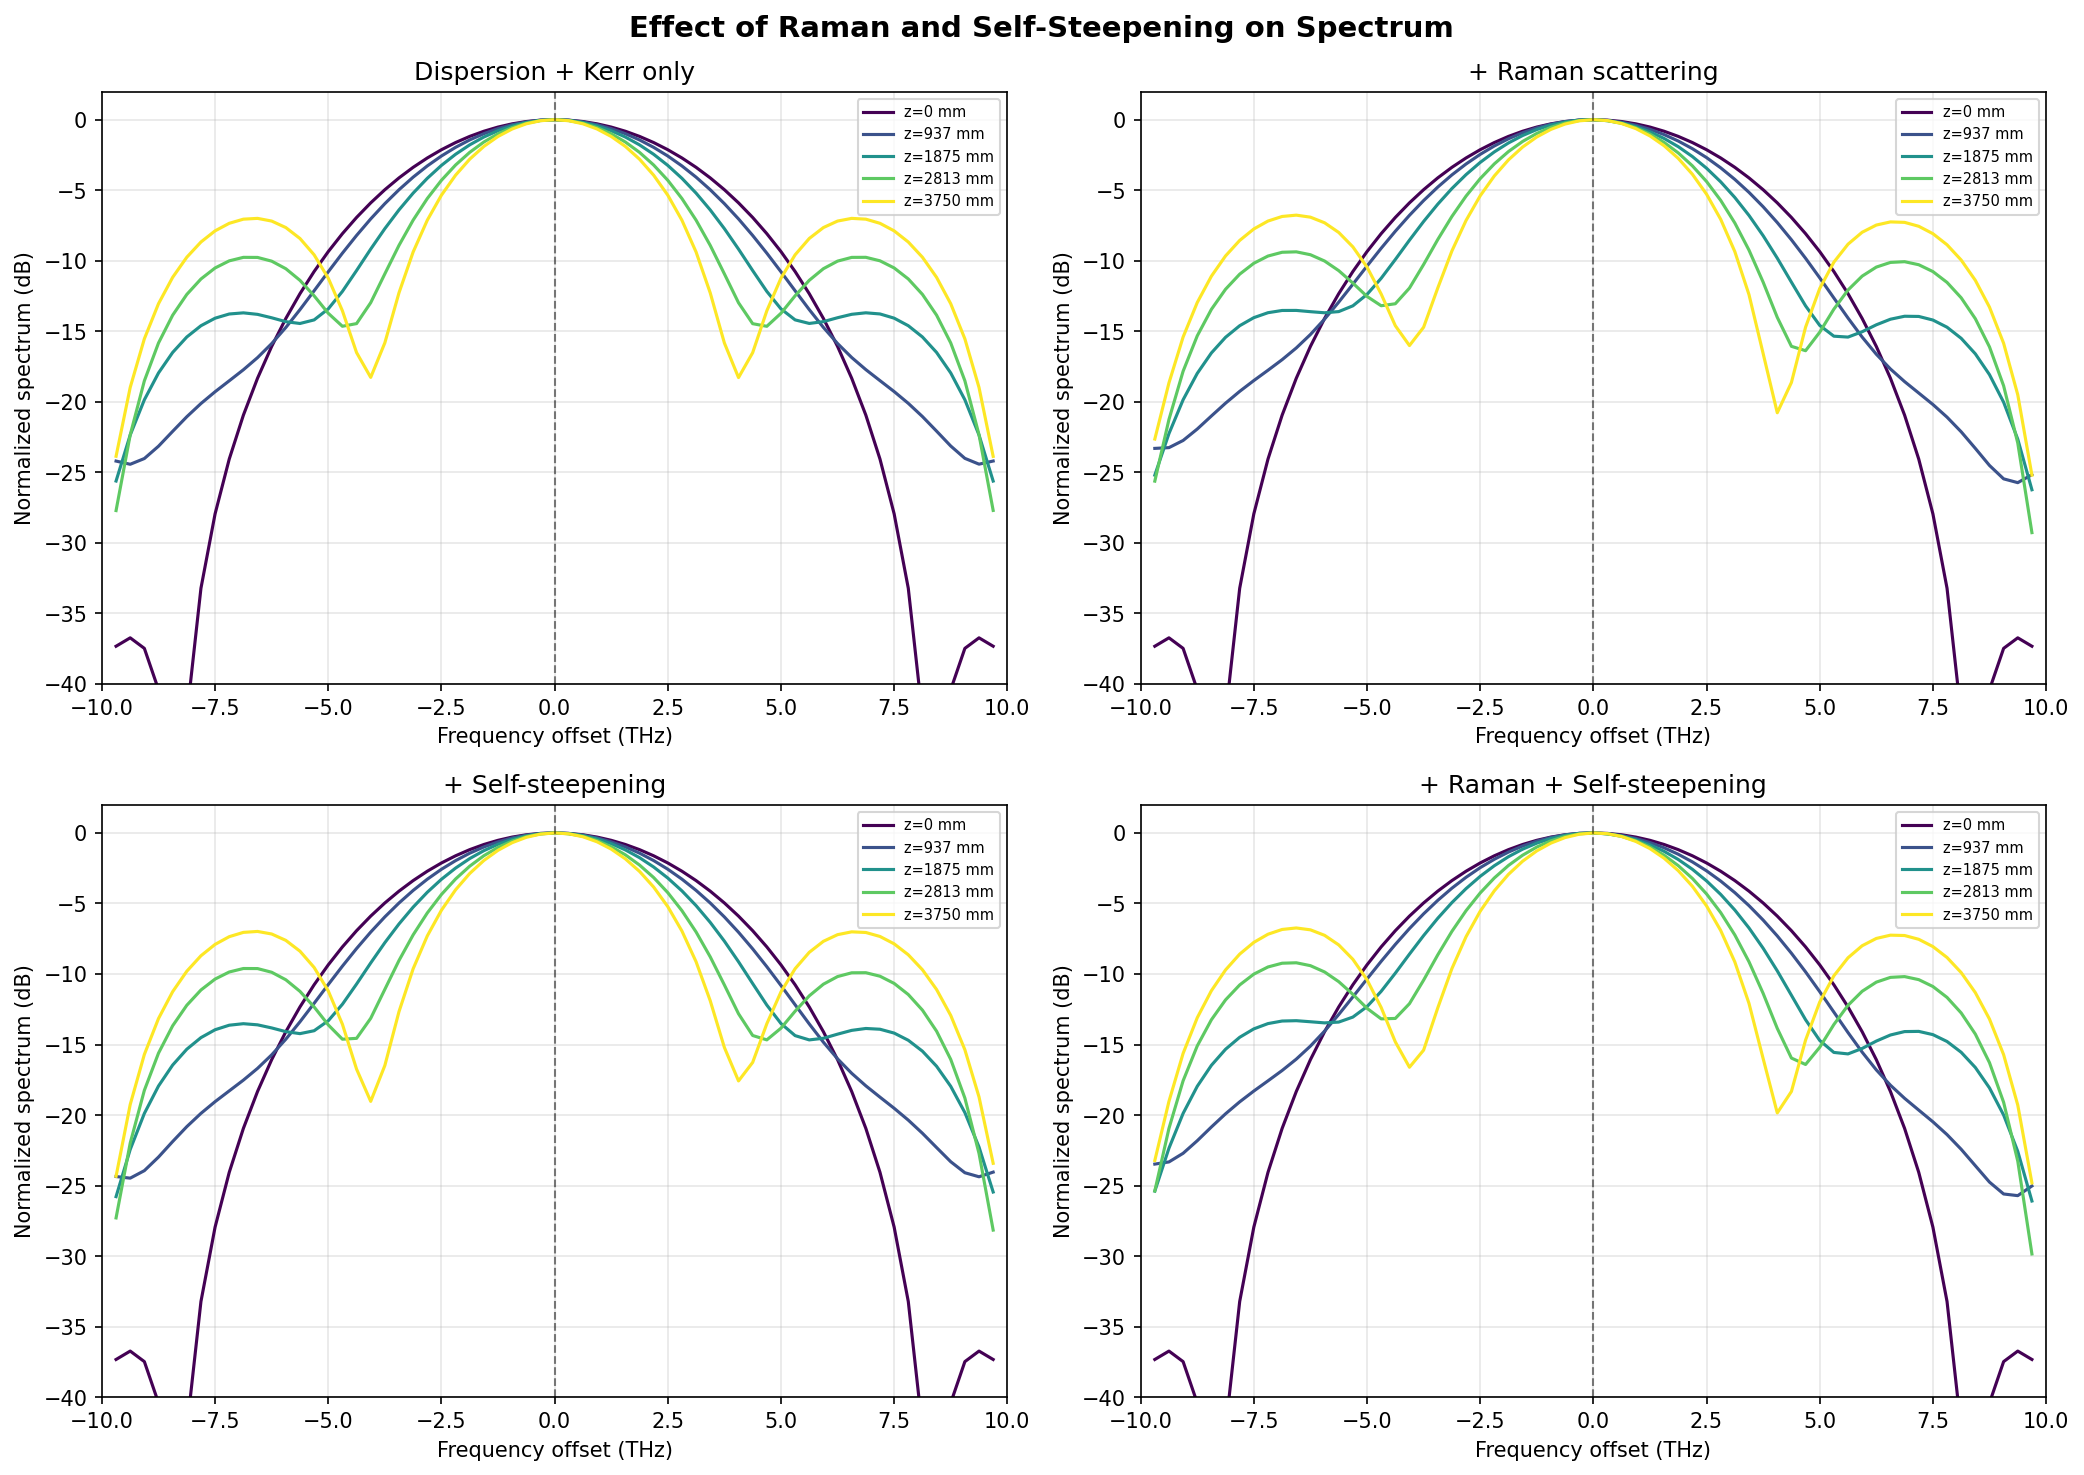
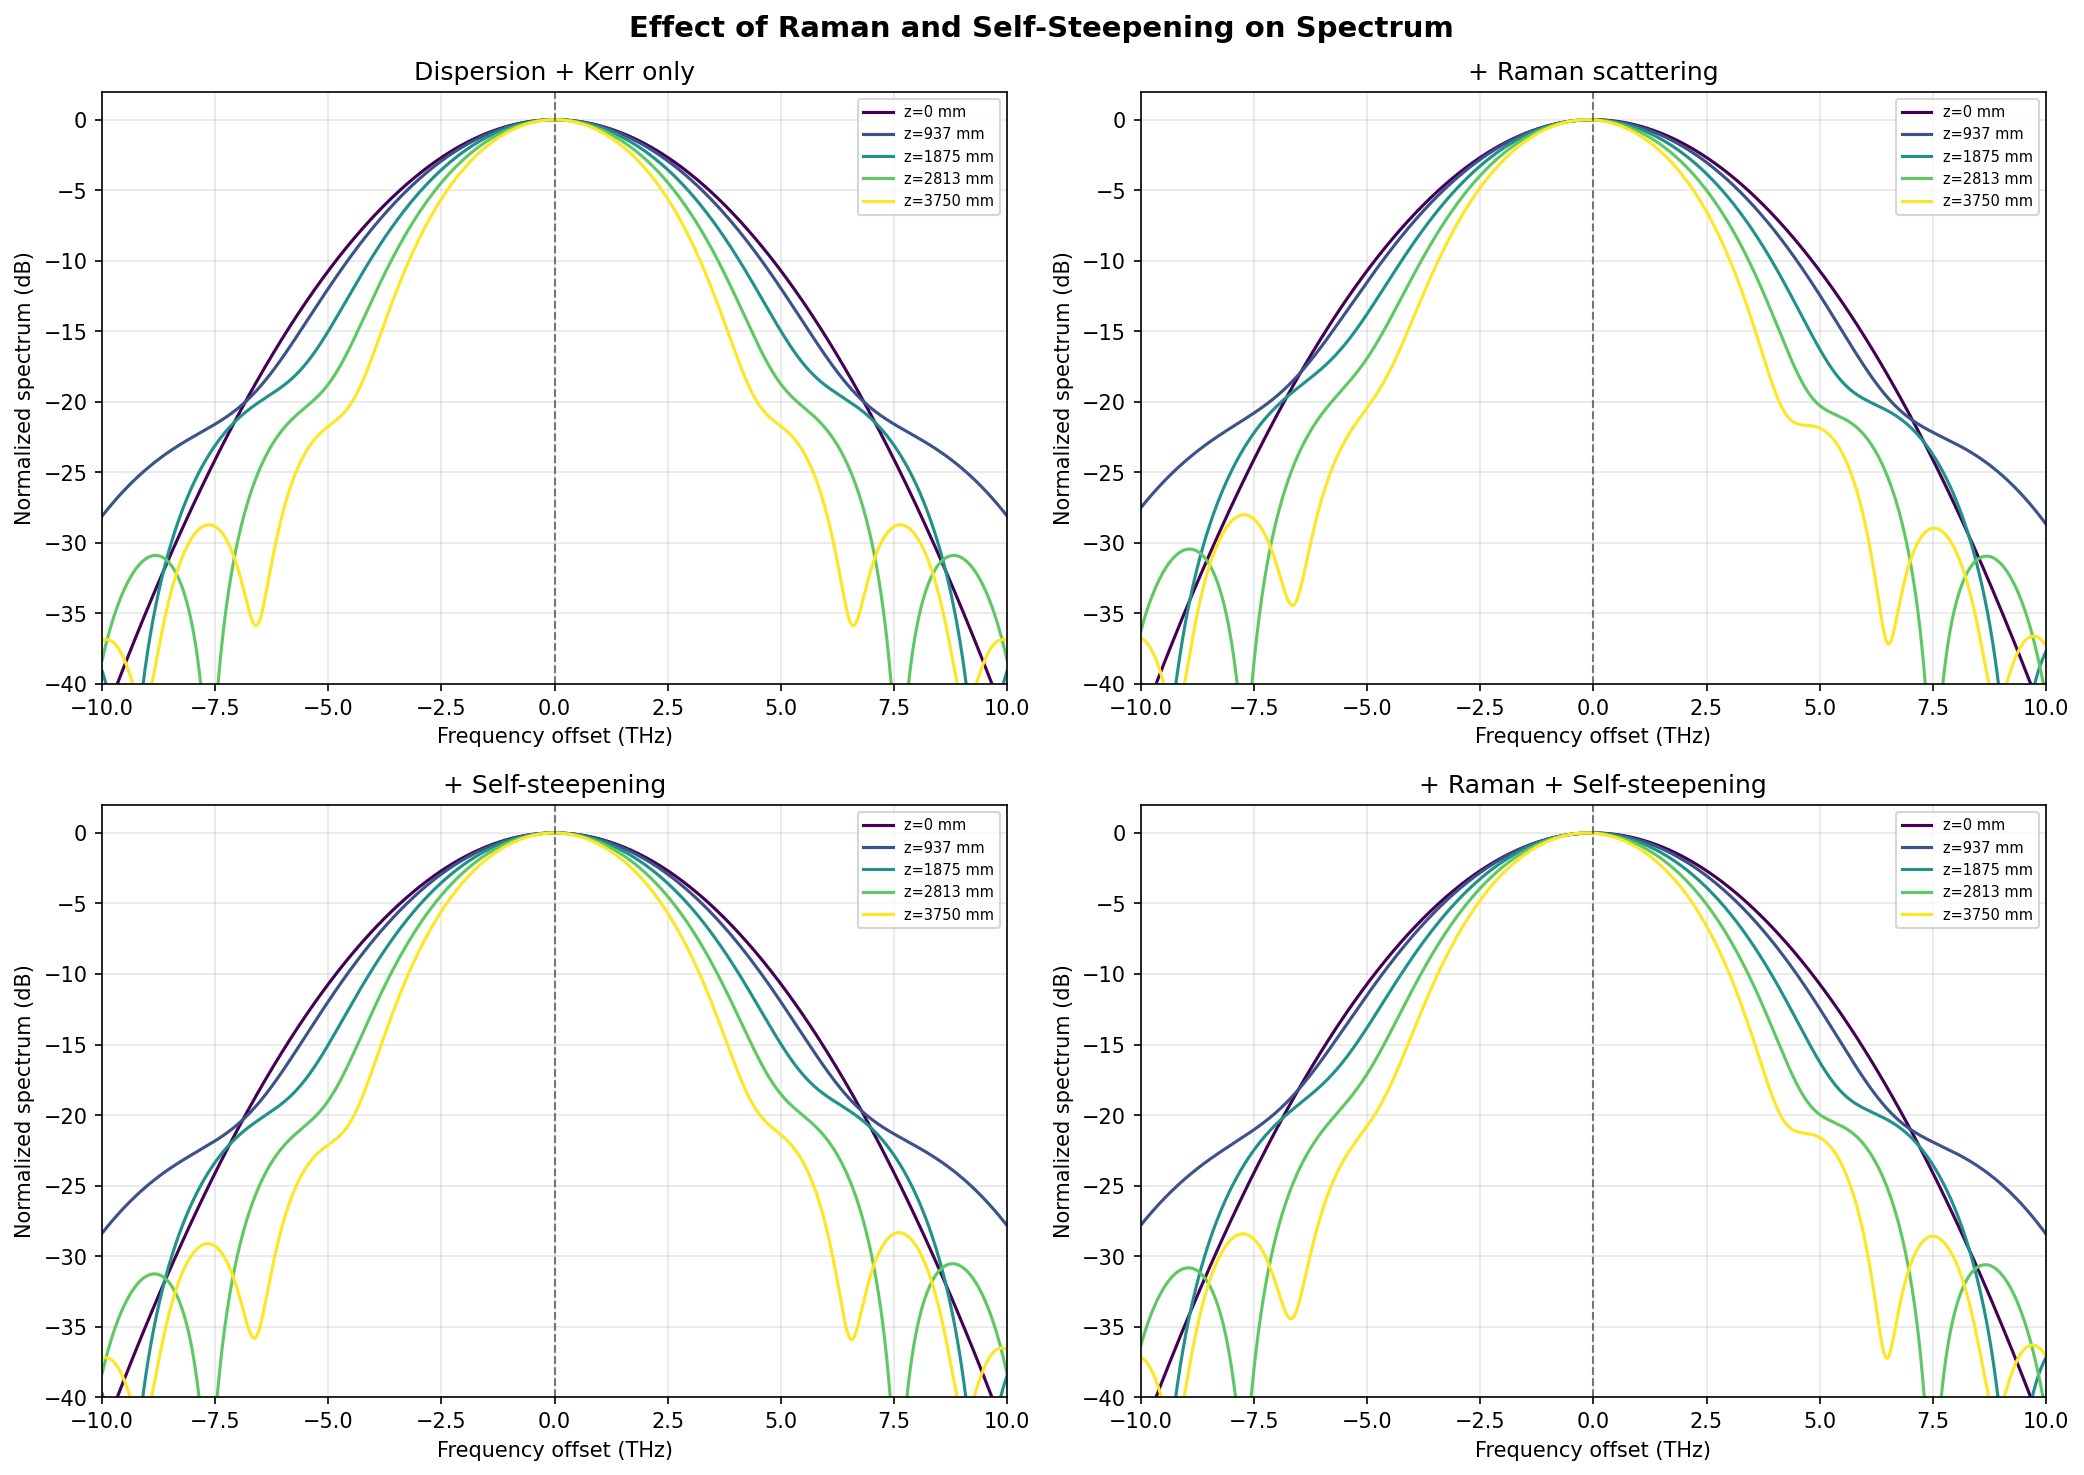
docs(roadmap): phase-5 scope + fix examples audit
- ROADMAP: add a proposed Phase-5 section (FROG depth, GPU GNLSE backend,
  mode-solver n_eff interface, reproducibility pipeline v2, dashboard
  unification, code-layout/examples audit) for later implementation.
- examples audit: every script under examples/ executed; the only hard
  failure was 14_gnlse_raman_and_steepening.py (the self-steepening substep
  rejects grids with Omega_max >= omega_0; the 0.2 ps window gave a
  24 fs step, ~72x over). The window is widened to 16 ps (dt ~ 3.9 fs,
  Omega_max/omega_0 ~ 0.89) and the Raman response is built on the same
  propagation grid as the pulse, so the engine's cached h_R FFT matches
  exactly. Web-app examples (10, 32) verified by module import/generation.
- remaining signals are documented warnings only: normalized-envelope
  peak-power hints and the known ~5-8% shock+Raman energy drift in the
  21/27 Dudley-China NSLE variants.

diff --git a/examples/14_gnlse_raman_and_steepening.py b/examples/14_gnlse_raman_and_steepening.py
@@ -41,9 +41,19 @@ def make_pulse(wavelength_nm=1064, T0_fs=50):
     return pulse
 
 
-def make_high_power_pulse(wavelength_nm=1064, T0_fs=50, peak_power_W=10000):
-    """Create a high-power pulse for nonlinear effects."""
-    grid = TemporalGrid(N=2**13, Tmax=Time(4 * T0_fs * 1e-15, "s"))
+def make_high_power_pulse(
+    wavelength_nm=1064, T0_fs=50, peak_power_W=10000, grid=None
+):
+    """Create a high-power pulse for nonlinear effects.
+
+    The self-steepening substep requires the grid's Nyquist offset to stay
+    below the carrier (Omega_max = 2*pi/dt < omega_0); for a 1064 nm pump
+    that means dt > 3.55 fs. The default window (N = 8192 over 16 ps ->
+    dt ~ 3.9 fs) satisfies this with ~10% margin; pass a shared ``grid``
+    to keep the pulse and the Raman response on one grid.
+    """
+    if grid is None:
+        grid = TemporalGrid(N=2**13, Tmax=Time(16e-12, "s"))
     A0 = np.sqrt(peak_power_W)
     env = Envelope(shape="gaussian", peak_amplitude=A0, pulse_width=Time(T0_fs, "fs"))
     pulse = Wave(
@@ -82,10 +92,14 @@ def main():
         raman_linewidth_cm=45.0,
         fR=0.18,
     )
-    raman_grid = TemporalGrid(N=2**13, Tmax=Time(500, "fs"))
+    # One shared propagation grid (dt ~ 2.2 fs: satisfies the self-steepening
+    # Omega_max < omega_0 guard at 1064 nm); the Raman response is built on
+    # the same grid so its cached h_R FFT matches the engine exactly.
+    sim_grid = TemporalGrid(N=2**13, Tmax=Time(16e-12, "s"))
+
     raman_response = RamanResponse(
         spec=silica_spec,
-        grid=raman_grid,
+        grid=sim_grid,
         tau1=Time(12.2, "fs").as_s,
         tau2=Time(32, "fs").as_s,
     )
@@ -98,11 +112,12 @@ def main():
         raman_response=raman_response,
     )
 
-    # ── Run simulations ────────────────────────────────────────────────────
-
     # Case A: Dispersion + Kerr only (baseline)
     pulse = make_high_power_pulse(
-        wavelength_nm=central_wl.as_nm, T0_fs=T0.as_fs, peak_power_W=P0
+        wavelength_nm=central_wl.as_nm,
+        T0_fs=T0.as_fs,
+        peak_power_W=P0,
+        grid=sim_grid,
     )
     betas_arr = np.array([beta2_ps2_m])
     n_steps_base = GNLSESolver.estimate_num_steps(

diff --git a/ROADMAP.md b/ROADMAP.md
@@ -119,6 +119,38 @@ the stable contract.
   - *Pending*: none — Phase 4 scope is decoupled from unpublished
     own-work reproduction targets.
 
+## Phase 5 — depth & delivery (proposed scope, to be implemented later)
+
+Candidate directions gathered on 2026-09-20 (not yet started; each item is
+independently scheduled; they do not have to land together):
+
+1. **FROG depth** — principal-component generalized-projections (PGPA)
+   algorithm and a synthetic SHG-FROG / ptychographic-FROG validation
+   suite (round-trip retrieval across pulse shapes, chirps and noise
+   levels). Completes the P2 physics-depth list from the original review.
+2. **GPU GNLSE backend** — a full cupy/JAX backend option for the
+   split-step engines (today only the FFT layer can be GPU-dispatched);
+   requires an accuracy contract against the CPU reference before
+   release.
+3. **Waveguide-mode-solver interface** — first-class n_eff(λ) ingestion
+   from external FEM exports (`femwell`, `tidy3d`, CSV/npz) wired into
+   the waveguide GNLSE and the phase-matching diagnostics; builds on the
+   existing `mode-export` extra.
+4. **Reproducibility pipeline v2** — a parameters-JSON schema (versioned,
+   validated) plus auto-generated per-study reports (HTML/PDF) for every
+   entry in `reproductions/` and every user simulation.
+5. **Dashboard unification** — merge the Raman Dash app and the GNLSE
+   result viewer into one navigable web frontend.
+6. **Code layout rearrangement** — verify every `examples/` script runs
+   on the current surface; fix breakages; re-home any straggler modules
+   uncovered while auditing (the import-path preference: flat
+   `photonics_helper.<module>` paths stay canonical; `core.*` is the
+   foundation-builder surface only).
+
+Work starts with the examples audit (item 6's verification pass) and the
+items proceed fastest-to-value; nothing above is binding on the core
+stability contract (Phase 3 rules apply).
+
 ## Pending — author action
 
 - [ ] **JOSS software-paper submission.** The prerequisites are in place
